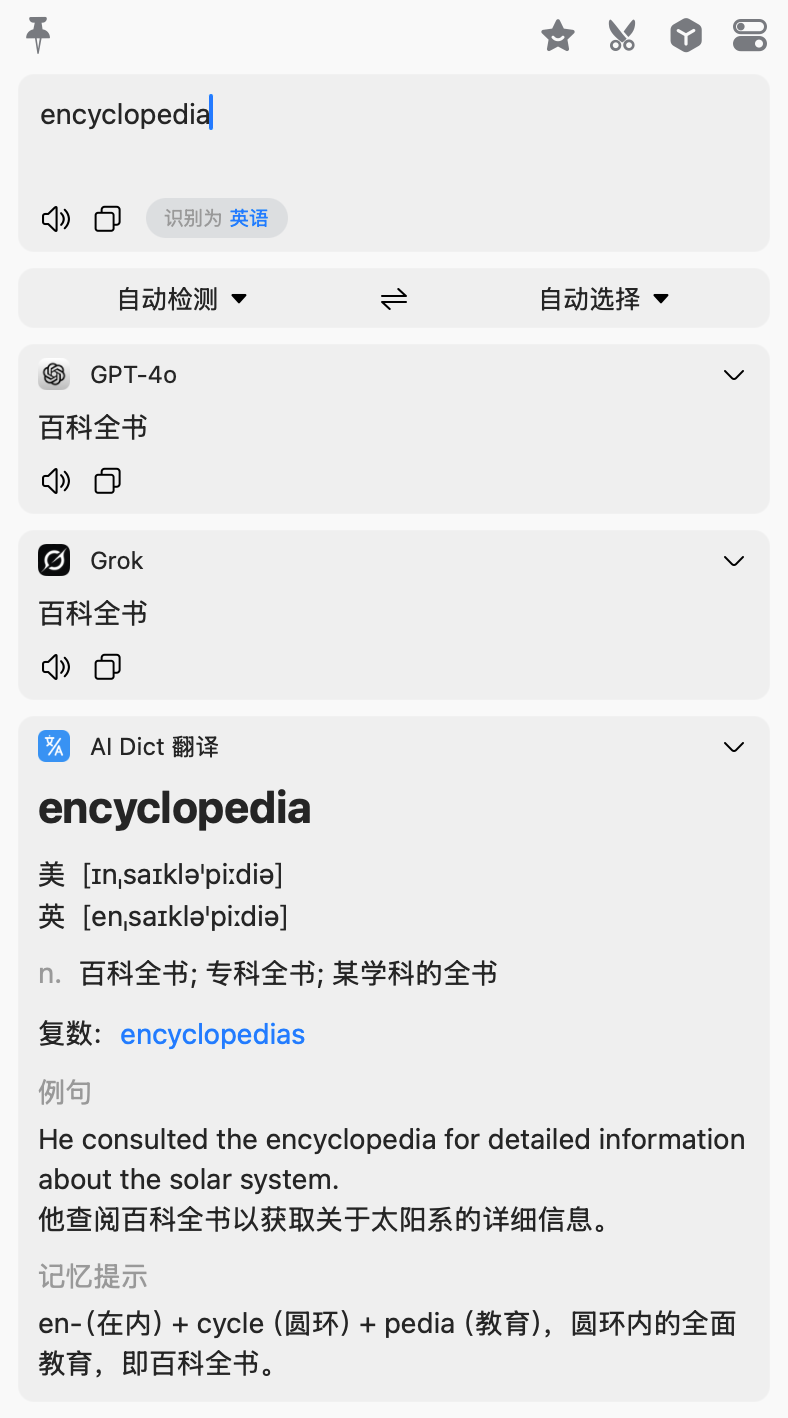
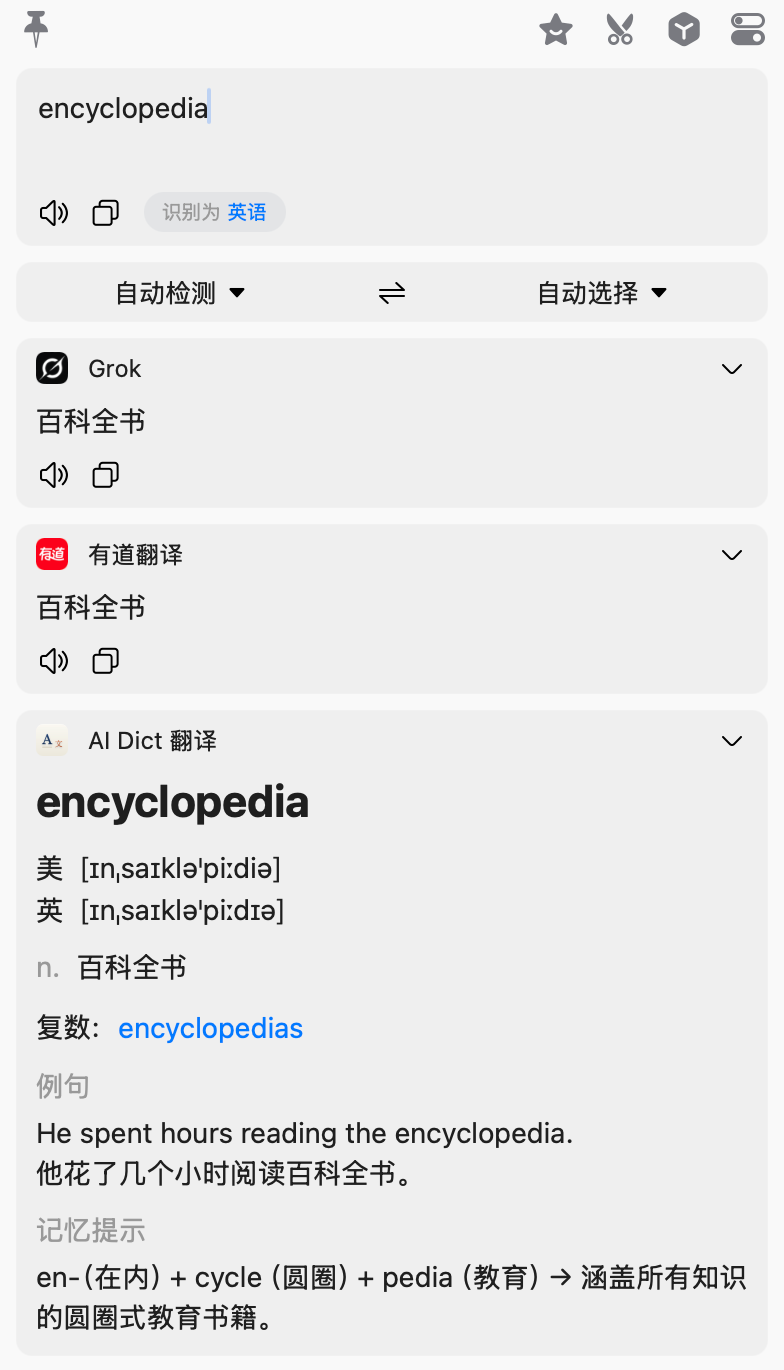
📝 docs: update plugin name and replace screenshots

diff --git a/README.md b/README.md
@@ -1,6 +1,6 @@
 # AI Dict 翻译 — Bob 插件
 
-LLM 翻译插件：**句子正常翻译，单词/短语返回 Bob 原生词典卡片**（音标、词性词义、变形、例句），而不是一段像词典的纯文本。
+Bob 翻译插件：**句子正常翻译，单词/短语返回 Bob 原生词典卡片**（音标、词性词义、变形、例句）。
 
 ## 效果
 